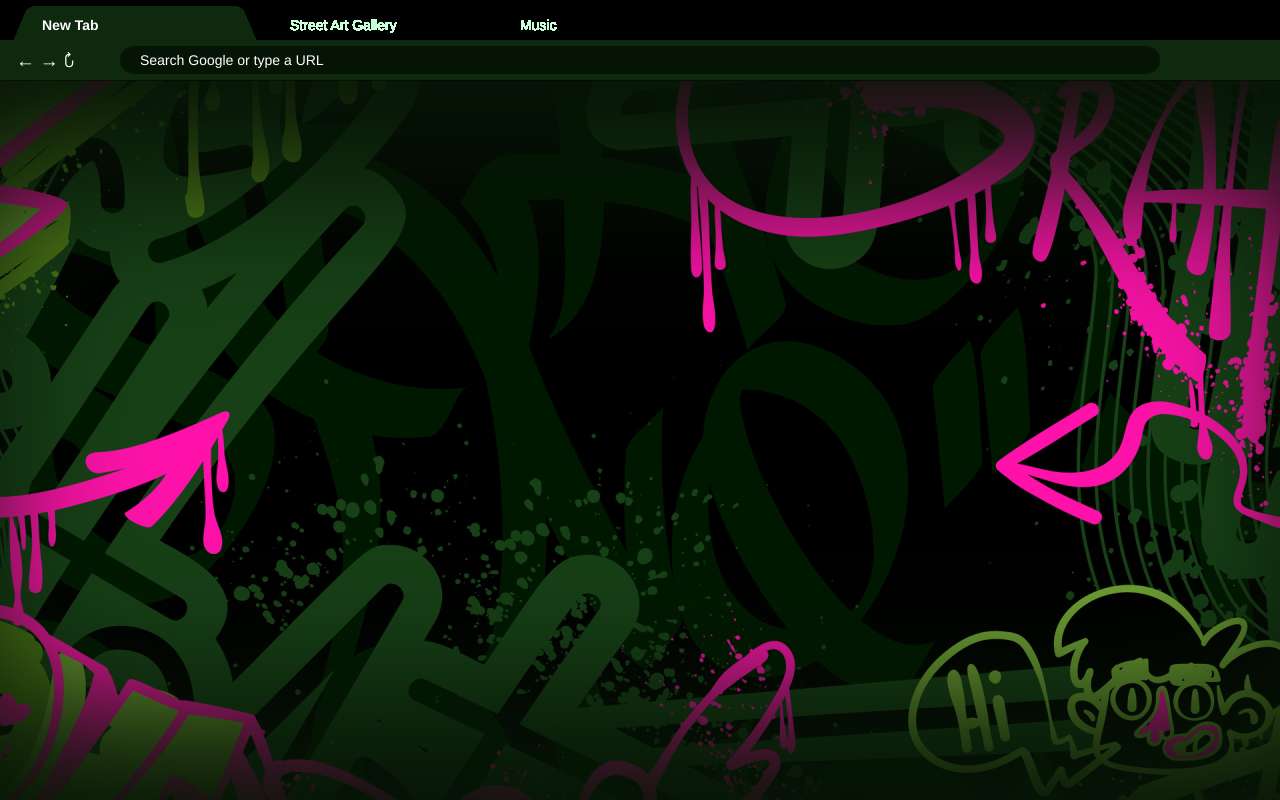
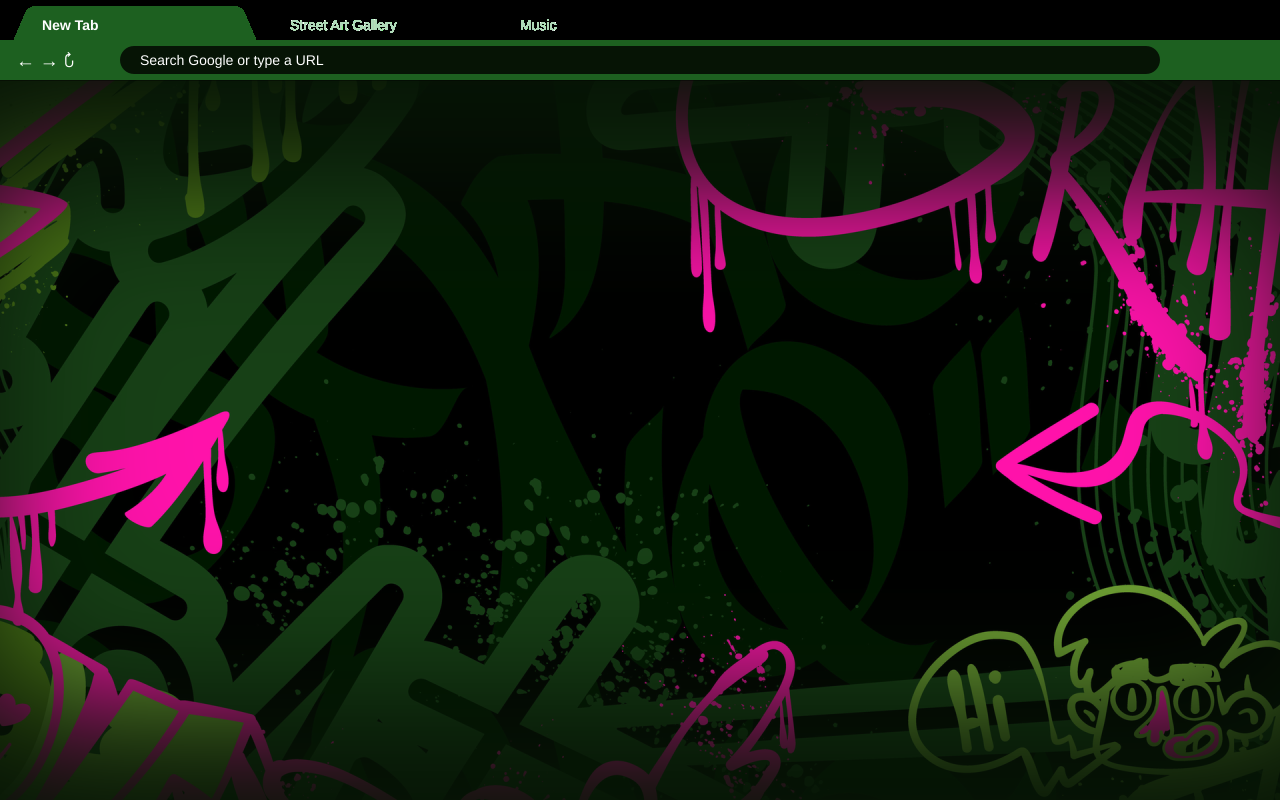
Make the selected tab distinguishable while keeping AAA contrast
Lighten the toolbar/active tab colour (#0e290d -> #1d6020) so it stands out
from the frame, and dim the inactive tab text (#c8ffd9 -> #aed9b8) so the
selected tab reads clearly. All text contrast checks stay >= 7:1, and the
build now asserts that the active tab is visually separated from the frame.

Changed region(s): [[0.0, 0.0, 1.0, 0.125]]

diff --git a/build.py b/build.py
@@ -42,9 +42,12 @@ WIDTHS = {"M": .92, "W": 1.0, "J": .5, "Z": .62, "S": .6, "T": .6, "V": .68, "X"
 COLORS = {
     "bg": "#2b2f2d",
     "frame": "#0b1f0a",
-    "toolbar": "#0e290d",
+    # Active tab/toolbar is lifted well above the frame so the selected tab is
+    # obvious, while white text on it stays AAA (>= 7:1).
+    "toolbar": "#1d6020",
     "tab_text": "#ffffff",
-    "inactive_text": "#c8ffd9",
+    # Dimmer than the active tab's white text but still AAA on the frame.
+    "inactive_text": "#aed9b8",
     "accent": "#39ff88",
     "omnibox": "#061405",
     "texture": ["#39ff88", "#00ff9c", "#9aa39f"],
@@ -415,6 +418,8 @@ def main():
         "address_text_on_omnibox": contrast(c["tab_text"], c["omnibox"]),
     }
     assert min(checks.values()) >= 7, checks
+    checks["active_tab_vs_frame"] = contrast(c["toolbar"], c["frame"])
+    assert checks["active_tab_vs_frame"] >= 2, checks
     gravity = "center" if alignment == "center" else "south"
     laptop = screen_preview(ntp, "laptop-1920", 1920, 960, ntp_bg, gravity)
     big = screen_preview(ntp, "43in-3840", 3840, 2040, ntp_bg, gravity)
